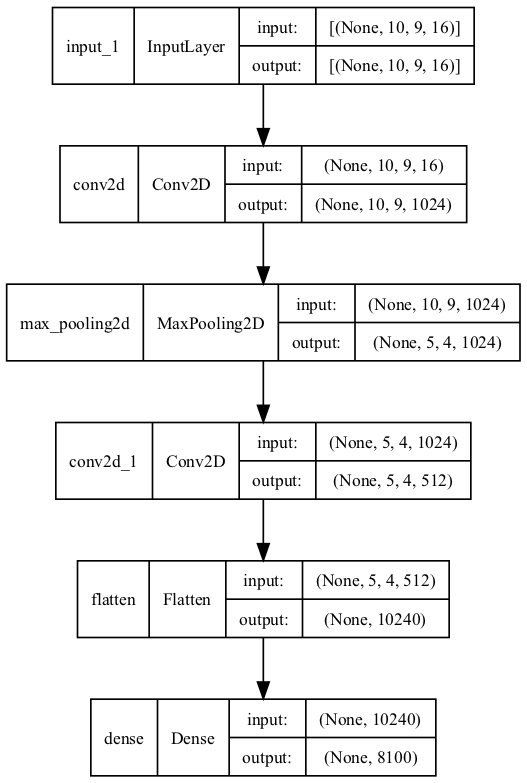
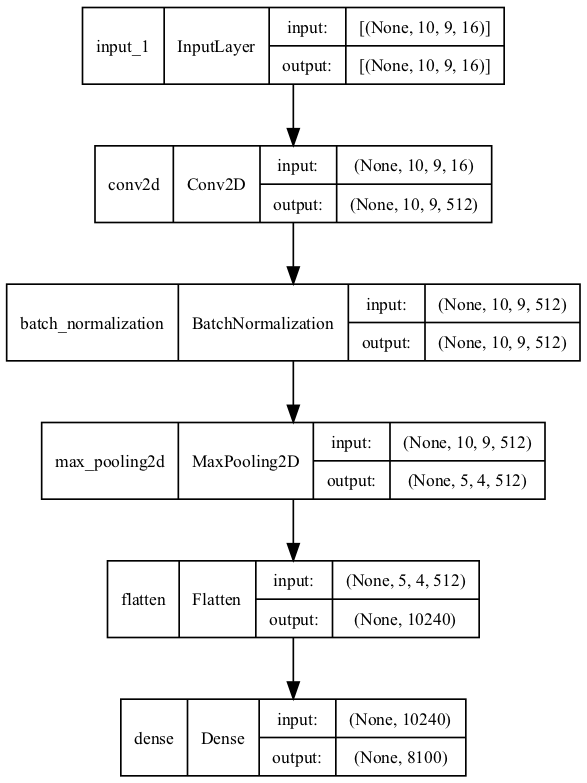
小更新

diff --git a/ai/SL.py b/ai/SL.py
@@ -7,27 +7,34 @@ from tensorflow.keras.layers import Conv2D, Dense, MaxPooling2D
 from tensorflow.keras.layers import Input
 from tensorflow.keras.layers import add, BatchNormalization, Flatten
 from tensorflow.keras.models import load_model, Model
+from tensorflow.keras import optimizers
+from tensorflow.keras.layers import Conv2D, Dense, MaxPooling2D, BatchNormalization
+from tensorflow.keras.layers import Flatten
+from tensorflow.keras.layers import Input
+from tensorflow.keras.models import Sequential
+from tensorflow.keras.models import load_model
 
 from ai.AI_Functions import *
 from localtime import localtime
 
 
 def create_model(learning_rate):
+    model = Sequential()
+    """
     def residual_module(layer_in, n_filters):
         merge_input = layer_in
         if layer_in.shape[-1] != n_filters:
             merge_input = Conv2D(n_filters, (1, 1), padding='same', activation='relu')(layer_in)
         conv1 = Conv2D(n_filters, (1, 1), padding='same', activation='relu')(layer_in)
         batch_norm = BatchNormalization()(conv1)
-        layer_out = add([batch_norm, merge_input])
-        layer_out = Activation('relu')(layer_out)
+        # layer_out = add([batch_norm, merge_input])
+        layer_out = Activation('relu')(batch_norm)
         return layer_out
-
     visible = Input(shape=(10, 9, 16))
     x = residual_module(visible, 1024)
     maxpooling_x = MaxPooling2D()(x)
-    """y = residual_module(maxpooling_x, 512)
-    maxpooling_y = MaxPooling2D()(y)"""
+    y = residual_module(maxpooling_x, 512)
+    maxpooling_y = MaxPooling2D()(y)
     z = Dense(1024, activation="relu")(maxpooling_x)
     m = Dense(512, activation="relu")(z)
     flatten = Flatten()(m)
@@ -35,6 +42,21 @@ def create_model(learning_rate):
     # final = Dense(8192, activation="relu")(flatten)
     action = Dense(8100, activation="softmax")(flatten)
     model = Model(inputs=visible, outputs=action)
+    sgd = optimizers.SGD(learning_rate=learning_rate)
+    """
+    model.add(Input(shape=(10, 9, 16)))
+    model.add(Conv2D(512, 1, activation="relu"))
+    model.add(BatchNormalization())
+    model.add(MaxPooling2D())
+    """
+    model.add(Conv2D(1024, 1, activation="relu"))
+    model.add(BatchNormalization())
+    model.add(MaxPooling2D())
+    """
+    model.add(Flatten())
+    # model.add(Dense(512, activation="relu"))
+    # model.add(Dense(8192, activation="relu"))
+    model.add(Dense(8100, activation="softmax"))
     sgd = optimizers.SGD(learning_rate=learning_rate)
     model.compile(optimizer=sgd, loss='binary_crossentropy')
     return model

diff --git a/ai/RL.py b/ai/RL.py
@@ -1,7 +1,7 @@
 import os
 
 from tensorflow.keras import optimizers
-from tensorflow.keras.layers import Conv2D, Dense, MaxPooling2D
+from tensorflow.keras.layers import Conv2D, Dense, MaxPooling2D, BatchNormalization
 from tensorflow.keras.layers import Flatten
 from tensorflow.keras.layers import Input
 from tensorflow.keras.models import Sequential
@@ -14,9 +14,14 @@ from localtime import localtime
 def create_model(learning_rate=0.1):
     model = Sequential()
     model.add(Input(shape=(10, 9, 16)))
-    model.add(Conv2D(1024, 1, activation="relu"))
-    model.add(MaxPooling2D())
     model.add(Conv2D(512, 1, activation="relu"))
+    model.add(BatchNormalization())
+    model.add(MaxPooling2D())
+    """
+    model.add(Conv2D(1024, 1, activation="relu"))
+    model.add(BatchNormalization())
+    model.add(MaxPooling2D())
+    """
     model.add(Flatten())
     # model.add(Dense(512, activation="relu"))
     # model.add(Dense(8192, activation="relu"))
